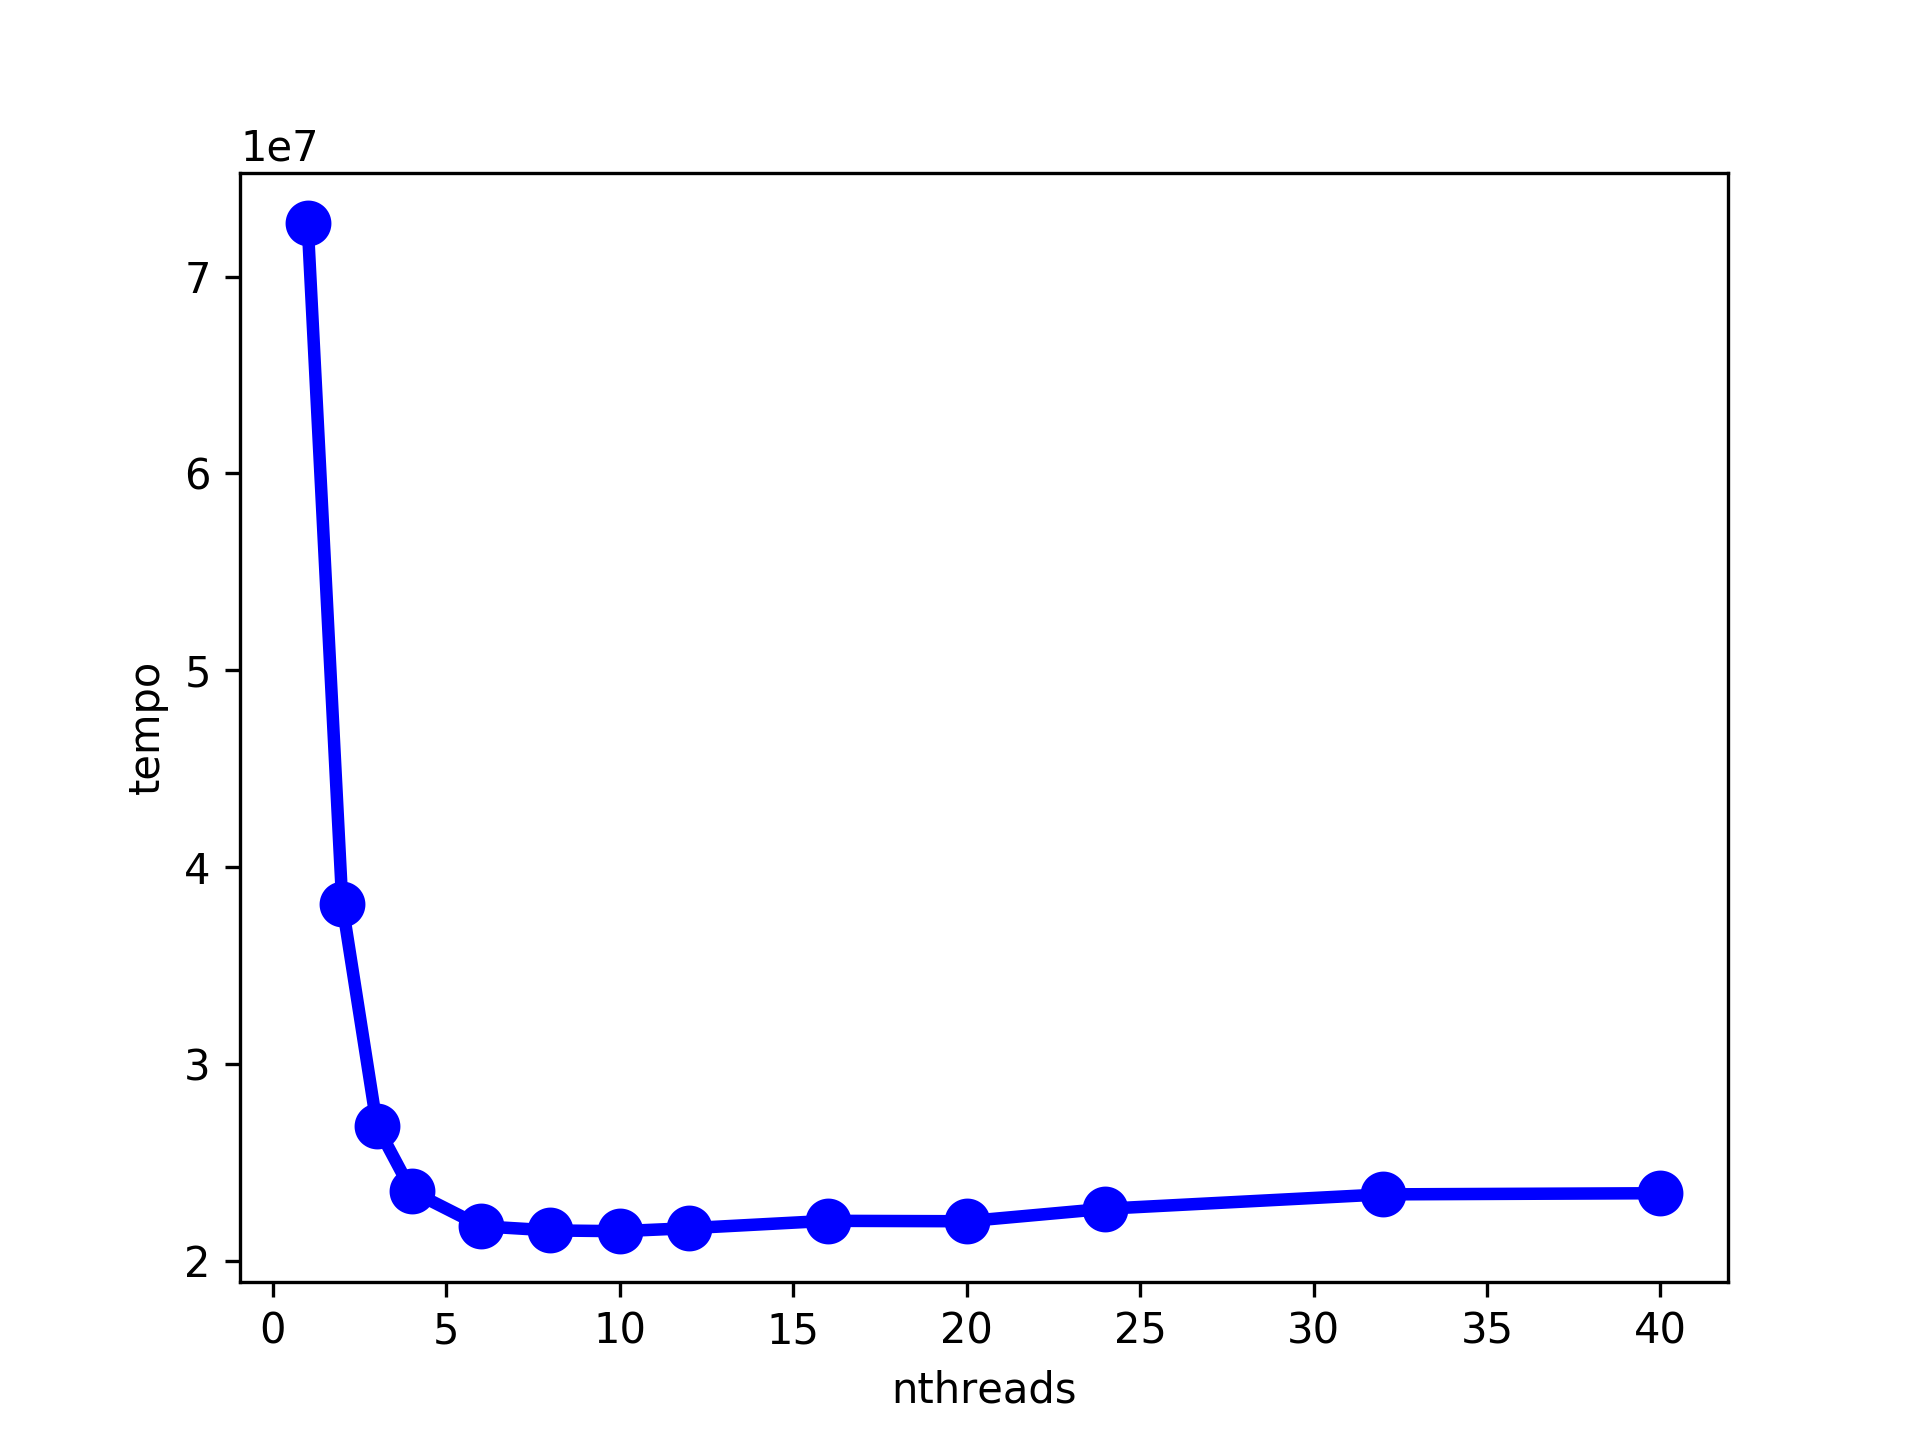
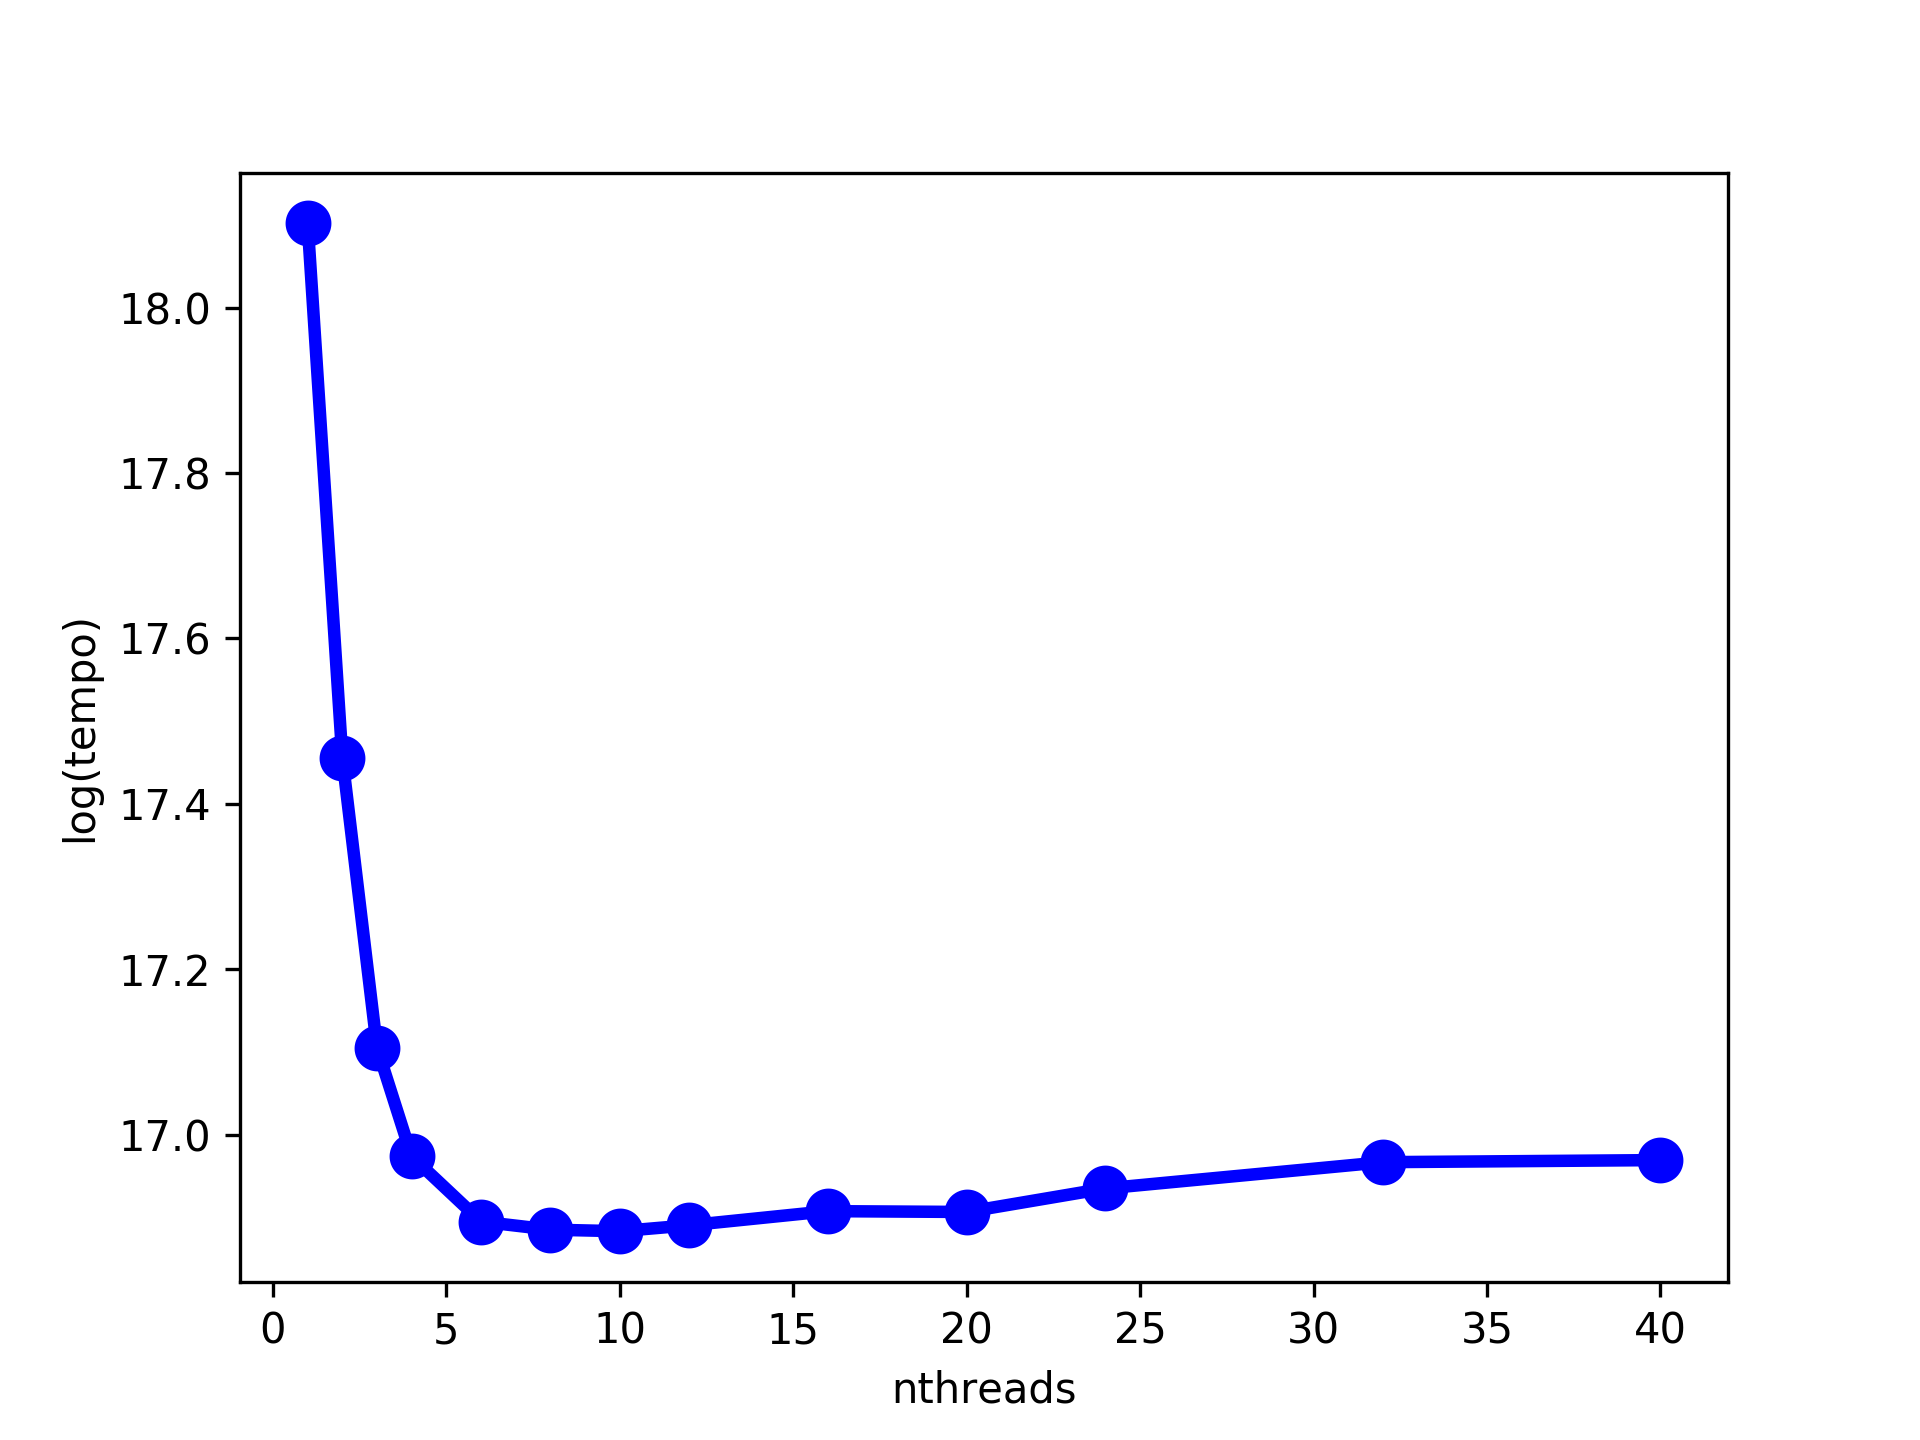
Atualização README e gráficos do relatório.

diff --git a/proccess_report.py b/proccess_report.py
@@ -7,13 +7,15 @@ import os
 import matplotlib.pyplot as plt
 import matplotlib
 import numpy as np
+import math
 
 # --------------------------------------------------------
 # ---------------- BEGIN Parâmetros ----------------------
 # --------------------------------------------------------
 
 # Arquivo do relatório gerado
-report_files = [ "reports/gcloud_48clients/report.csv" ]
+report_files = [ "reports/gcloud/report_gcloud_ssh_com.csv", \
+"reports/gcloud_48clients/report.csv" ]
 
 # Quantidade de testes realizados
 qty_tests = 10
@@ -93,6 +95,35 @@ def plotChart(filename, xdata, ydata, xlabel, ylabel):
     plt.ylabel(ylabel)
     plt.savefig(os.path.join(filename + ".png"), dpi=300)
     plt.gcf().clear()
+
+def plotChartGeneralIdealLine(filename, xdata, ydata, \
+        xlabel, ylabel, yideal):
+    """
+    Desenha um gráfico com quatro linhas para valores de y diferente e insere suas legendas.
+
+    @param filename : str
+        nome do arquivo em que o gráfico será salvo
+    @param xdata : list
+        dados do eixo x
+    @param ydata : list
+        dados do eixo y, linha 0 
+    @param leg : str
+        legenda para a linha 0
+    @param xlabel : str
+        rótulo do eixo x
+    @param ylabel : str
+        rótulo do eixo y
+    """
+    lw_val = 3
+    mew_val = 4
+    line0, = plt.plot(xdata, ydata, 'bo-', lw = lw_val, mew = mew_val)
+    line1, = plt.plot(xdata, yideal, 'k--', lw = 2.2, mew = 0, label="ideal")
+    plt.xlabel(xlabel)
+    plt.ylabel(ylabel)
+    plt.legend(handles=[line1]);
+    plt.savefig(os.path.join(filename + ".png"), dpi=300)
+    plt.gcf().clear()
+
 
 class Report:
     """
@@ -254,13 +285,23 @@ class Report:
         @param out_files_suffix : list<str>
             lista de sufixos para planilhas de cada tipo de tempo analisado
         """
+        speedup_ideal = []
+        efficiency_ideal = []
+        for nthread in self.nthreads:
+            speedup_ideal.append(nthread)
+        for i in range(len(self.nthreads)):
+            efficiency_ideal.append(1)
         for i in range(self.qty_times):
+            log_time_mean = []
+            N = len(self.time_mean[i])
+            for l in range(N):
+                log_time_mean.append(math.log(self.time_mean[i][l]))
             plotChart(pathfile[:-4] + "_" + out_files_suffix[i] + "_mean", self.nthreads, \
-                self.time_mean[i], "nthreads", "tempo")
-            plotChart(pathfile[:-4] + "_" + out_files_suffix[i] + "_speedup", self.nthreads, \
-                self.speedup[i], "nthreads", "speedup")
-            plotChart(pathfile[:-4] + "_" + out_files_suffix[i] + "_efficiency", \
-                self.nthreads, self.efficiency[i], "nthreads", "eficiência")
+                log_time_mean, "nthreads", "log(tempo)")
+            plotChartGeneralIdealLine(pathfile[:-4] + "_" + out_files_suffix[i] + "_speedup", \
+                self.nthreads, self.speedup[i], "nthreads", "speedup", speedup_ideal)
+            plotChartGeneralIdealLine(pathfile[:-4] + "_" + out_files_suffix[i] + "_efficiency", \
+                self.nthreads, self.efficiency[i], "nthreads", "eficiência", efficiency_ideal)
 
 def main(argv):
     qty_times = 1

diff --git a/README.md b/README.md
@@ -1,2 +1,65 @@
 # MultithreadedWebServer
+
+## Introdução
+
 Implementação em Java de um servidor web multithread para a disciplina Programação Paralela e Distribuída da Universidade Federal de Lavras.
+
+## Executando o servidor
+
+O jar executável do projeto está no diretório dist e chama 'multithreaded-web-server.jar'.
+
+Para executar, acesse o diretório dist pelo terminal e então execute com o comando:
+
+```bash
+java -jar multithreaded-web-server.jar -p <port> -c <queue_capacity> -s <poll_size> -l
+```
+
+Todos parâmetros no comando acima são opcionais, por padrão, a aplicação será executada na porta 8008 com um pool de threads com 3 threads e uma fila de tarefas com a capacidade máxima de 10 tarefas. Para ajustar as configurações defina os parâmetros da aplicação, segue o que cada parâmetro define:
+
+* ```-p --port=PORT```                Porta em que o servidor está ouvindo
+* ```-c --queue_capacity=CAPACITY```  Capacidade máxima da fila de tarefas
+* ```-s --poll_size=SIZE```           Tamanho do pool de threads
+* ```-l --log```                      Ativa o log das requisições
+* ```-h --help```                     Imprime mensagem de ajuda
+
+Exemplos:
+
+* ```java -jar multithreaded-web-server.jar -p 9005``` ->> A aplicação é executada na porta 9005 com um pool de 3 threads e uma fila de tarefas com a capacidade máxima de 10 tarefas. 
+
+* ```java -jar multithreaded-web-server.jar -p 9005 -s 8 - c 20``` ->>   A aplicação é executada na porta 9005 com um pool de 8 threads e uma fila de tarefas com a capacidade máxima de 20 tarefas. 
+
+
+A aplicação estará disponível na porta especificada, basta acessar no seu navegador de preferência:
+
+http://127.0.0.1:<porta>/, substituindo <porta> pela porta especificada.
+
+## Executando o teste de carga
+
+Foi desenvolvida uma aplicação multithread em python para realizar teste de carga. O arquivo da aplicação é o 'load_test.py' e está no diretório raiz do projeto.
+
+Para executar o teste de carga execute:
+
+```bash
+python3 load_test.py -r <request_file> -o <host> -p <port> -n <qty_each_request> -c <num_clients>
+```
+onde,
+* ```-r --request_file=REQUEST_FILE```           Arquivo com a lista de recursos a ser requisitado ao servidor web
+* ```-o --host=HOST```                           Host do servidor web. Padrão: http://localhost
+* ```-p --port=PORT```                           Porta em que o servidor web está ouvindo. Padrão: 8008
+* ```-n --qty_each_request=QTY_EACH_REQUEST```   Quantidade de requisições para cada recurso. Padrão: 1
+* ```-c --num_clients=NUM_CLIENTS```             Quantidade de clientes fazendo requisições. Padrão: 1
+* ```-h --help```                                Imprime mensagem de ajuda
+
+## Outras aplicações do projeto
+
+No diretório do projeto há alguns scripts, esses scripts são:
+
+* ```install_java_and_python.sh``` - instalação do Java e python para a execução deste projeto
+* ```install_python3_pip_and_libs.sh``` - instalação do python3 e bibliotecas utilizadas nos scripts python implementados nesse projeto
+* ```load_test_one_machine.sh``` - script utilizado para realizar testes com várias configurações no servidor, usando o teste de carga na mesma máquina que o servidor. O _header_ desse arquivo contém os parâmetros do script a ser executado. 
+* ```load_test_ssh.sh``` - script utilizado para realizar testes com várias configurações no servidor, usando o teste de carga em uma máquina diferente do servidor. No entanto o script deve ser executado na máquina cliente que irá executar o teste de carga e a máquina cliente deve ter acesso ssh na máquina servidor para executar e matar o servidor com diferentes configurações. O _header_ desse arquivo contém os parâmetros do script a ser executado. 
+* ```process_report.py``` - processa os dados de um experimento para conseguir os dados estatísticos em uma nova planilha geral do experimento e também gera os gráficos do experimento.
+
+## Testes e relatórios gerados
+
+O diretório _reports/gcloud_ possui relatórios de testes executados em duas máquinas na Google Cloud, onde a máquina servidor possui um processador com 24 cores e 24GB de memória RAM e a máquina cliente possui um processador com 8 cores e 8,5GB de memória RAM. Mais informações das máquinas estão nos arquivos _doc/cpu_server_machine.info_ e _doc/cpu_client_machine.info_. No relatório é possível ver informações sobre os dados brutos com todos os tempos do experimento, mas também foi criada uma planilha com os dados estatísticos, esses dados são: o tempo médio dos testes realizados em um cenário, o seu intervalo de confiança para um grau de confiança de 95%, o _speedup_, e a eficiência.
